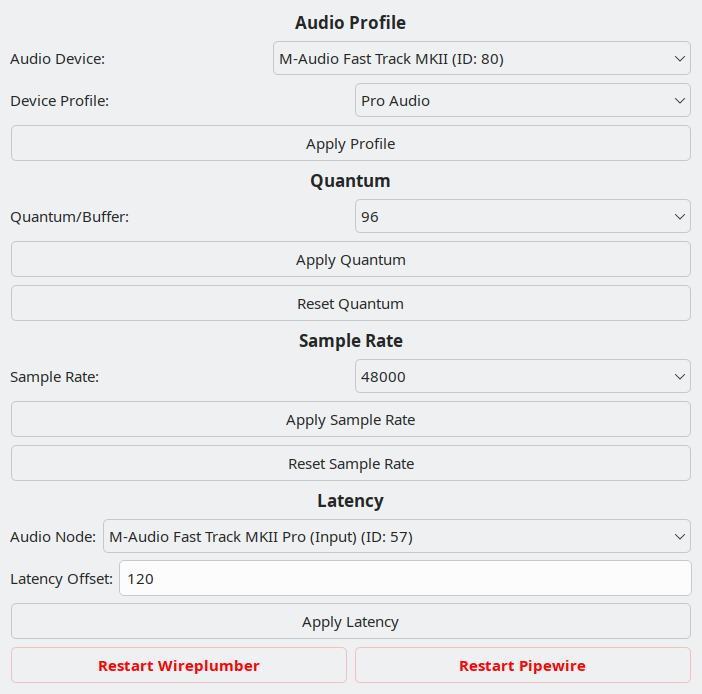
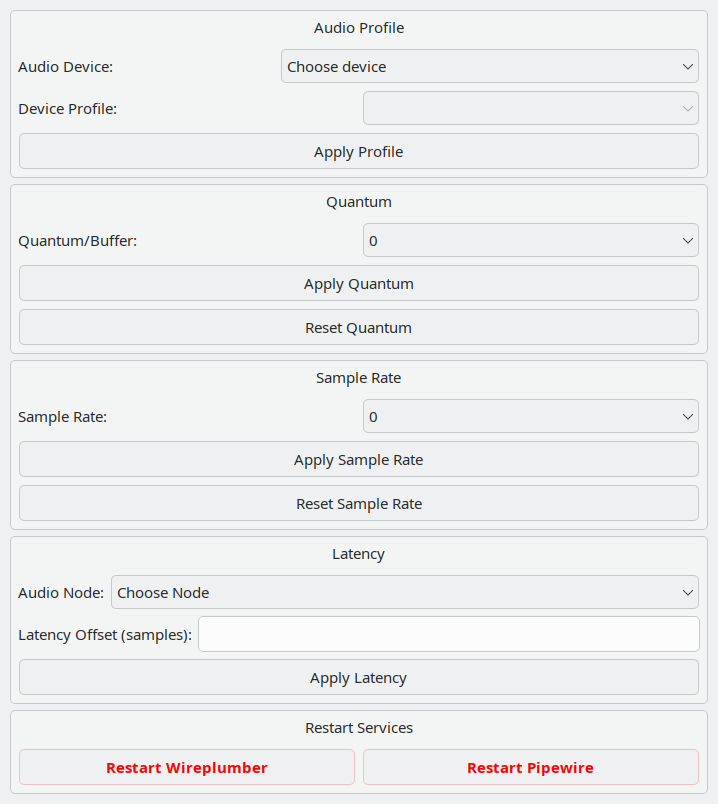
visual improvements

diff --git a/Cable.py b/Cable.py
@@ -2,7 +2,7 @@ import sys
 import subprocess
 import json
 import re
-from PyQt5.QtWidgets import QApplication, QWidget, QVBoxLayout, QHBoxLayout, QComboBox, QLineEdit, QPushButton, QLabel, QSpacerItem, QSizePolicy, QMessageBox
+from PyQt5.QtWidgets import QApplication, QWidget, QVBoxLayout, QHBoxLayout, QComboBox, QLineEdit, QPushButton, QLabel, QSpacerItem, QSizePolicy, QMessageBox, QGroupBox
 from PyQt5.QtGui import QFont
 from PyQt5.QtCore import Qt
 
@@ -10,124 +10,140 @@ class PipeWireSettingsApp(QWidget):
     def __init__(self):
         super().__init__()
         self.initUI()
-        self.profile_index_map = {}  # To store the mapping between profile names and indices
-        self.load_current_settings()  # Load current settings when the app starts
+        self.profile_index_map = {}
+        self.load_current_settings()
 
-    def create_section_title(self, title):
-        label = QLabel(title)
-        font = label.font()
-        font.setPointSize(font.pointSize() + 2)
-        font.setBold(True)
-        label.setFont(font)
-        label.setAlignment(Qt.AlignCenter)
-        return label
+    def create_section_group(self, title, layout):
+        group = QGroupBox()
+        group.setLayout(layout)
+        
+        # Create a new font for the title
+        title_font = QFont()
+        title_font.setBold(True)
+        title_font.setPointSize(title_font.pointSize() + 1)
+        
+        # Create a label for the title with the new font
+        title_label = QLabel(title)
+        title_label.setFont(title_font)
+        title_label.setAlignment(Qt.AlignCenter)
+        
+        # Add the title label to the top of the layout
+        layout.insertWidget(0, title_label)
+        
+        return group
 
     def initUI(self):
-        layout = QVBoxLayout()
-        layout.addItem(QSpacerItem(20, 40, QSizePolicy.Minimum, QSizePolicy.Expanding))
-        # Audio Profile Section
-        layout.addWidget(self.create_section_title("Audio Profile"))
+        main_layout = QVBoxLayout()
+        main_layout.addItem(QSpacerItem(20, 40, QSizePolicy.Minimum, QSizePolicy.Expanding))
 
+        # Audio Profile Section
+        profile_layout = QVBoxLayout()
         device_layout = QHBoxLayout()
         device_label = QLabel("Audio Device:")
         self.device_combo = QComboBox()
         device_layout.addWidget(device_label)
         device_layout.addWidget(self.device_combo)
-        layout.addLayout(device_layout)
+        profile_layout.addLayout(device_layout)
 
-        profile_layout = QHBoxLayout()
+        profile_select_layout = QHBoxLayout()
         profile_label = QLabel("Device Profile:")
         self.profile_combo = QComboBox()
-        profile_layout.addWidget(profile_label)
-        profile_layout.addWidget(self.profile_combo)
-        layout.addLayout(profile_layout)
+        profile_select_layout.addWidget(profile_label)
+        profile_select_layout.addWidget(self.profile_combo)
+        profile_layout.addLayout(profile_select_layout)
 
         self.apply_profile_button = QPushButton("Apply Profile")
         self.apply_profile_button.clicked.connect(self.apply_profile_settings)
-        layout.addWidget(self.apply_profile_button)
+        profile_layout.addWidget(self.apply_profile_button)
+
+        main_layout.addWidget(self.create_section_group("Audio Profile", profile_layout))
 
         # Quantum Section
-        layout.addWidget(self.create_section_title("Quantum"))
-
-        quantum_layout = QHBoxLayout()
+        quantum_layout = QVBoxLayout()
+        quantum_select_layout = QHBoxLayout()
         quantum_label = QLabel("Quantum/Buffer:")
         self.quantum_combo = QComboBox()
         quantum_values = [16, 32, 48, 64, 96, 128, 144, 192, 240, 256, 512, 1024, 2048]
         for value in quantum_values:
             self.quantum_combo.addItem(str(value))
-        quantum_layout.addWidget(quantum_label)
-        quantum_layout.addWidget(self.quantum_combo)
-        layout.addLayout(quantum_layout)
+        quantum_select_layout.addWidget(quantum_label)
+        quantum_select_layout.addWidget(self.quantum_combo)
+        quantum_layout.addLayout(quantum_select_layout)
 
         self.apply_quantum_button = QPushButton("Apply Quantum")
         self.apply_quantum_button.clicked.connect(self.apply_quantum_settings)
-        layout.addWidget(self.apply_quantum_button)
+        quantum_layout.addWidget(self.apply_quantum_button)
 
         self.reset_quantum_button = QPushButton("Reset Quantum")
         self.reset_quantum_button.clicked.connect(self.reset_quantum_settings)
-        layout.addWidget(self.reset_quantum_button)
+        quantum_layout.addWidget(self.reset_quantum_button)
+
+        main_layout.addWidget(self.create_section_group("Quantum", quantum_layout))
 
         # Sample Rate Section
-        layout.addWidget(self.create_section_title("Sample Rate"))
-
-        sample_rate_layout = QHBoxLayout()
+        sample_rate_layout = QVBoxLayout()
+        sample_rate_select_layout = QHBoxLayout()
         sample_rate_label = QLabel("Sample Rate:")
         self.sample_rate_combo = QComboBox()
         sample_rate_values = [44100, 48000, 88200, 96000, 176400, 192000]
         for value in sample_rate_values:
             self.sample_rate_combo.addItem(str(value))
-        sample_rate_layout.addWidget(sample_rate_label)
-        sample_rate_layout.addWidget(self.sample_rate_combo)
-        layout.addLayout(sample_rate_layout)
+        sample_rate_select_layout.addWidget(sample_rate_label)
+        sample_rate_select_layout.addWidget(self.sample_rate_combo)
+        sample_rate_layout.addLayout(sample_rate_select_layout)
 
         self.apply_sample_rate_button = QPushButton("Apply Sample Rate")
         self.apply_sample_rate_button.clicked.connect(self.apply_sample_rate_settings)
-        layout.addWidget(self.apply_sample_rate_button)
+        sample_rate_layout.addWidget(self.apply_sample_rate_button)
 
         self.reset_sample_rate_button = QPushButton("Reset Sample Rate")
         self.reset_sample_rate_button.clicked.connect(self.reset_sample_rate_settings)
-        layout.addWidget(self.reset_sample_rate_button)
+        sample_rate_layout.addWidget(self.reset_sample_rate_button)
+
+        main_layout.addWidget(self.create_section_group("Sample Rate", sample_rate_layout))
 
         # Latency Section
-        layout.addWidget(self.create_section_title("Latency"))
-
-        node_layout = QHBoxLayout()
+        latency_layout = QVBoxLayout()
+        node_select_layout = QHBoxLayout()
         node_label = QLabel("Audio Node:")
         self.node_combo = QComboBox()
-        self.node_combo.addItem("Choose Node")  # Add "Choose Node" option
-        node_layout.addWidget(node_label)
-        node_layout.addWidget(self.node_combo)
-        layout.addLayout(node_layout)
+        self.node_combo.addItem("Choose Node")
+        node_select_layout.addWidget(node_label)
+        node_select_layout.addWidget(self.node_combo)
+        latency_layout.addLayout(node_select_layout)
 
-        latency_layout = QHBoxLayout()
+        latency_input_layout = QHBoxLayout()
         latency_label = QLabel("Latency Offset (samples):")
         self.latency_input = QLineEdit()
-        latency_layout.addWidget(latency_label)
-        latency_layout.addWidget(self.latency_input)
-        layout.addLayout(latency_layout)
+        latency_input_layout.addWidget(latency_label)
+        latency_input_layout.addWidget(self.latency_input)
+        latency_layout.addLayout(latency_input_layout)
 
         self.apply_latency_button = QPushButton("Apply Latency")
         self.apply_latency_button.clicked.connect(self.apply_latency_settings)
-        layout.addWidget(self.apply_latency_button)
+        latency_layout.addWidget(self.apply_latency_button)
 
-           # Restart Buttons Section
-        restart_layout = QHBoxLayout()
+        main_layout.addWidget(self.create_section_group("Latency", latency_layout))
 
+        # Restart Buttons Section
+        restart_layout = QVBoxLayout()
+        restart_buttons_layout = QHBoxLayout()
         self.restart_wireplumber_button = QPushButton("Restart Wireplumber")
         self.restart_wireplumber_button.clicked.connect(self.confirm_restart_wireplumber)
         self.set_button_style(self.restart_wireplumber_button)
-        restart_layout.addWidget(self.restart_wireplumber_button)
+        restart_buttons_layout.addWidget(self.restart_wireplumber_button)
 
         self.restart_pipewire_button = QPushButton("Restart Pipewire")
         self.restart_pipewire_button.clicked.connect(self.confirm_restart_pipewire)
         self.set_button_style(self.restart_pipewire_button)
-        restart_layout.addWidget(self.restart_pipewire_button)
+        restart_buttons_layout.addWidget(self.restart_pipewire_button)
 
-        layout.addLayout(restart_layout)
+        restart_layout.addLayout(restart_buttons_layout)
+        main_layout.addWidget(self.create_section_group("Restart Services", restart_layout))
 
-        self.setLayout(layout)
+        self.setLayout(main_layout)
         self.setWindowTitle('Cable')
-        self.setGeometry(300, 300, 400, 600)  # Increased height to accommodate new buttons
+        self.setGeometry(300, 300, 400, 700)  # Adjusted height to accommodate new layout
 
         self.load_nodes()
         self.load_devices()

diff --git a/README.md b/README.md
@@ -1,5 +1,5 @@
 # Cable
-PyQT application to dynamically modify Pipewire and Wireplumber settings at runtime.
+PyQT GUI application to dynamically modify Pipewire and Wireplumber settings at runtime.
 
 I wanted to make my workflow bit easier so I asked Claude 3.5 Sonnet to write it for me, and it did. You shouldn't need to restart Pipewire or Wireplumber at any point. These buttons are there for convenience. If you click any of these buttons, you'll need to restart the app because the IDs of devices and nodes will change. 
 
